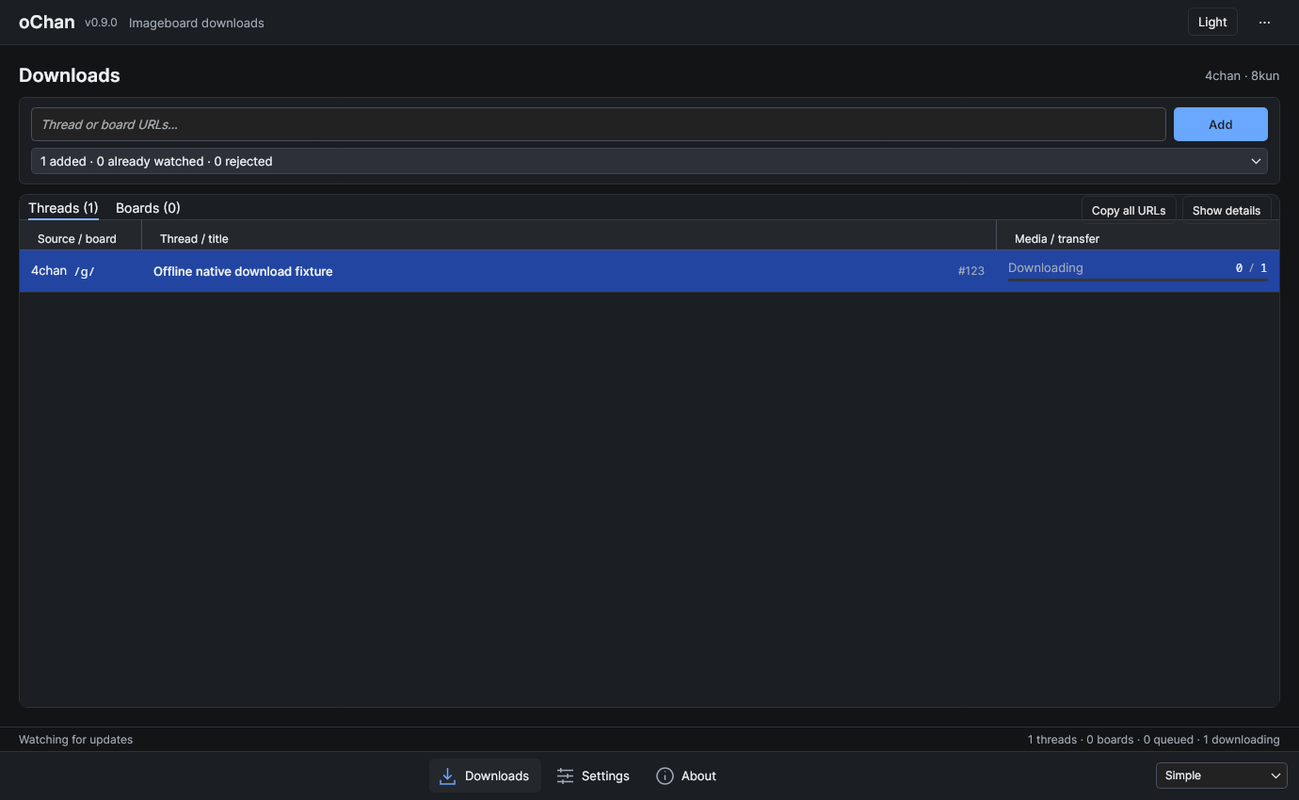
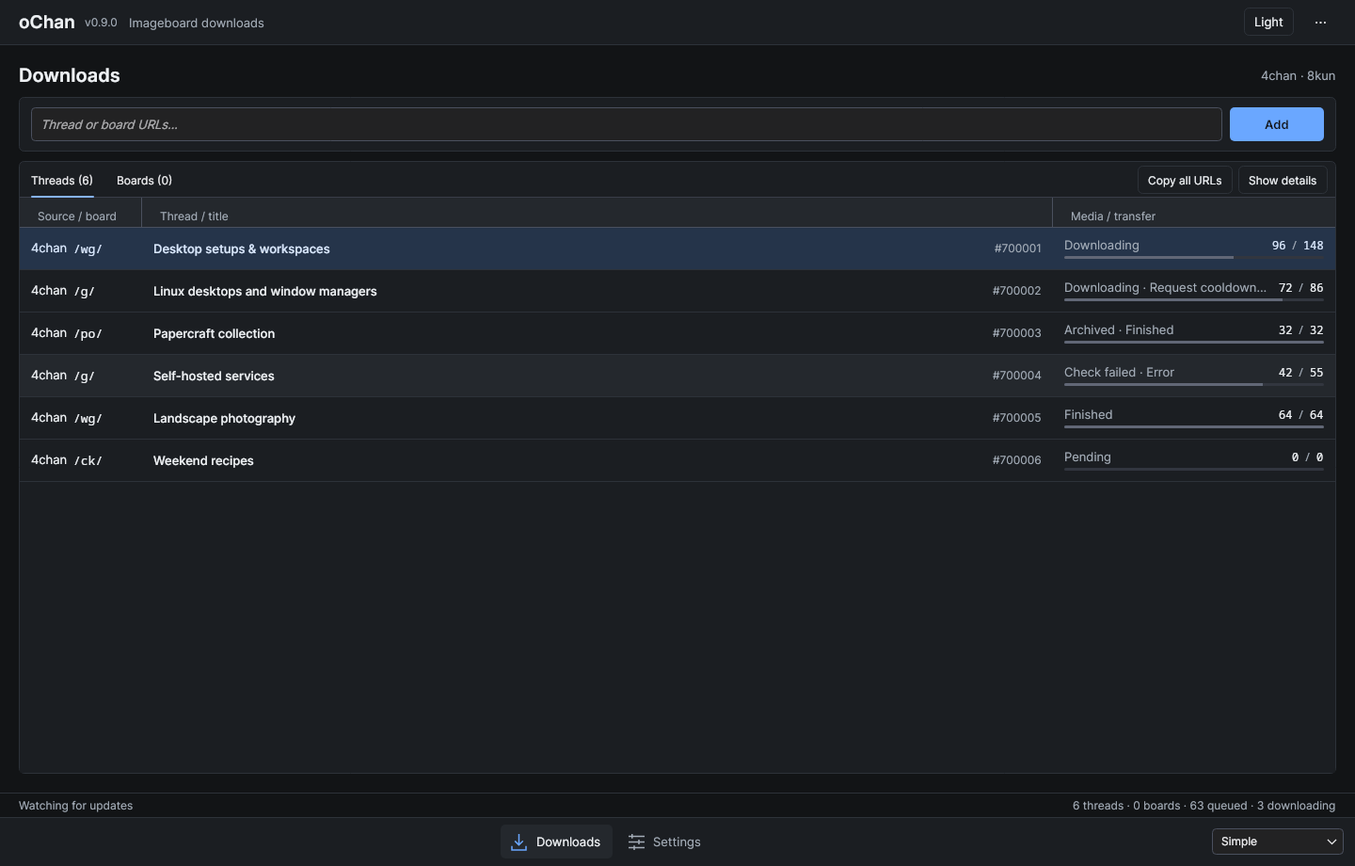
docs: refresh Avalonia workspace previews and validation evidence

diff --git a/docs/platform-support.md b/docs/platform-support.md
@@ -10,7 +10,34 @@ Current acceptance must cover the integrated download/restore flow, all three vi
 
 The subsequent compact-layout/menu-contrast correction passed a Release build without warnings or errors and 90 desktop tests. Final source-built Linux checks passed 5/5 scenarios at measured 100% and 150%, and 4/5 at 200%: `artifacts/ap13-layout-final-scale-{100,150,200}` (14/15 runs, 72 captures). All presentation checks passed, including six passive comparison rows, source/board and numeric sorting, minimum window sizes, and separately rendered Dark/Light context menus with asserted icon colors. The earlier `ap13-layout-correction-v3-scale-*` runs passed 15/15, but do not supersede the later failure.
 
-**Open Linux tray lifecycle defect:** The final 200% download-session check aborted during rapid restored-window shutdown, after download and media restoration had succeeded. The stack ends in `OrgKdeStatusNotifierItemHandler.EmitNewTitle` / `DBusTrayIconImpl.CreateTrayIcon`. Avalonia 11.3.22 can continue asynchronous DBus tray creation after disposal removes its handler; [upstream fix #21980](https://github.com/AvaloniaUI/Avalonia/pull/21980), included in 12.1.4, addresses this race. A reviewed framework upgrade/backport or an explicitly chosen Linux tray fallback is required before closing this gate; delays or rerunning until green do not fix it. The framework has not been changed in this layout correction. Native Windows/macOS tray appearance remains unverified. The packages listed below predate both this correction and the selected cat icon; they must be rebuilt before final release acceptance.
+**Linux tray lifecycle correction:** The 14/15 layout checkpoint above is historical. Avalonia 11.3.22 could continue asynchronous DBus tray creation after disposal removed its handler. Commit `53162b9` upgrades to Avalonia 12.1.4, which includes [upstream fix #21980](https://github.com/AvaloniaUI/Avalonia/pull/21980), with Actipro 26.2.0, DataGrid 12.1.2 and the transitive Tmds.DBus.Protocol 0.94.1. Icons now attach to the application's collection as required by Avalonia 12, and each window removes its entry on shutdown. The previous direct DBus pin is removed; locks and licensing notices are refreshed.
+
+**Current pages and local source evidence:** `0bbbfd5` extracts the shared settings editor, and `ae1b3f9` adds retained Downloads/Settings pages in one shell. Save/Cancel remain on Settings; footer actions preserve unrelated draft fields. The final source in `53162b9` passed 457 .NET tests and the 22 macOS-packaging fixtures. All six native Linux scenarios passed at measured 100%, 150% and 200%: **18/18**, retained in `artifacts/ap13-pages-final-scale-{100,150,200}`. The new tray-lifecycle scenario checks 16 rapid native windows per scale, confirms actual native tray attachment, checks collection cleanup and reacquires each profile lease. Normal mode also covers invalid draft navigation, footer failures, accepted save/picker shutdown, language refresh and small Settings pages; the download scenario completes media while Settings is visible and retains both page states.
+
+The local host logged unavailable AT-SPI/global-menu services as warnings; native accessibility/global-menu integration is not established by that evidence. The Xvfb attempt at that checkpoint was unavailable because the tools were not installed. They have since been provided as verified, locally extracted Manjaro packages; the new isolated evidence is recorded separately below.
+
+**Workstation freeze and test isolation:** After the framework checkpoint, the user reported a desktop freeze during subsequent style checks. The last native run (`artifacts/ap13-styles-final-scale-100`) passed only 2/6 scenarios, with window-size/minimization timeouts. Its relationship to the freeze is unproven. Do not infer resolution from the earlier 18/18 pass or use the active personal desktop for automatic GUI suites.
+
+Commit `d355152` isolates Linux runs in Xvfb/Openbox with a private DBus session that cannot activate host services, private XDG directories and cleared inherited desktop endpoints. Standard scenarios stop at the first failure; stress requires a separate explicit invocation. Windows/macOS and Linux native-session runs require explicit opt-in on a disposable test desktop. Nine window-free runner fixtures verify the selection, fail-fast, timeout, process cleanup and evidence behavior. Isolation is process/display ownership, not a security sandbox; the [harness instructions](../tests/oChan.DesktopSmoke/README.md) explain the limits.
+
+Native Windows/macOS, Linux Arm64 and full extracted-package workflows remain open. The earlier archives listed below predate the icon, pages, framework and style changes. Cross-publish alone cannot replace their native acceptance.
+
+### Isolated style checkpoint — `1884ff5`
+
+The final style source passed the Release solution build without warnings/errors and all **457 .NET tests** (367 core, 90 desktop). The smoke build, 22 macOS-packaging fixtures and nine window-free runner fixtures also passed. Linux GUI checks used Xvfb/Openbox, software rendering, a private non-activating DBus session and temporary profile/download directories; no personal desktop windows or tray stress were started.
+
+| Scope | Observed scale | Result | Evidence directory |
+| --- | --- | --- | --- |
+| Visual comparison plus five standard scenarios | 1.0 | 6/6 passed | `artifacts/ap13-styles-isolated-final-100` |
+| Normal presentation/settings after harness synchronization fixes | 1.0 | Passed | `artifacts/ap13-styles-isolated-final-100-normal-v2` |
+| Normal presentation/settings | 1.5 | Passed | `artifacts/ap13-styles-isolated-final-150-v3` |
+| Normal presentation/settings | 2.0 | Passed | `artifacts/ap13-styles-isolated-final-200` |
+
+The first 150% run retained a stale pre-resize restore target; the next reached a right-click check that used stale row coordinates after sorting. Both failed runs are retained in `artifacts/ap13-styles-isolated-final-150` and `-150-v2`. The harness now waits for the measured native size before saving its restore target and for the actual hit-tested row before sending a click. No timeout extension or product-behavior workaround was used. Normal mode was then verified at all three scales.
+
+The visual scene uses six passive snapshot rows at the mock's 1440×920 size and 880×680 for compact Barebones. Downloads/Settings, empty/disabled states, Advanced details, Dark/Light and keyboard focus were inspected; primary-action label contrast measured 7.55:1 and 6.46:1. Small EN/DE pages retain reachable actions. The README screenshots come from this isolated run. Visual user acceptance is still open.
+
+These results do not reproduce or establish the cause of the reported native desktop freeze. Xvfb has no native tray host, GPU rendering, host accessibility or desktop portals, and does not prove native Windows/macOS or extracted-package behavior.
 
 ## Upstream requirements checked on 2026-10-10
 
@@ -20,9 +47,9 @@ The official [.NET 10 supported OS matrix](https://github.com/dotnet/core/blob/m
 - Ubuntu 22.04, 24.04 and 26.04 on x64/Arm64, among other listed distributions. The portable x64/Arm64 glibc baseline is 2.27; this is a runtime compatibility floor, not a guarantee for every distribution or native graphics dependency.
 - Maintained Windows 11 releases/editions and the specifically listed Windows 10 LTSC/Enterprise/IoT variants. It does not promise general support for every Windows 10 installation. The [Microsoft installation guidance](https://learn.microsoft.com/en-us/dotnet/core/install/windows#supported-versions) explains the edition/lifecycle restriction.
 
-The current Avalonia documentation also covers Avalonia 12, including a 12.1 Wayland package, and must not be used as though all of it describes the project's Avalonia 11 packages. The [official documentation snapshot from the Avalonia 11 era](https://github.com/AvaloniaUI/avalonia-docs/blob/4640a690ff98762519cd16ab369a0e8016aa3c59/docs/overview/supported-platforms.md) lists Windows 8.1/10/11, macOS 10.14–15, Debian 9+, Ubuntu 16.04+ and Fedora 30+. Those older operating-system allowances do not override .NET 10's stricter supported-platform matrix. The snapshot is historical upstream evidence, not a versioned warranty for every Avalonia 11 patch.
+The desktop now uses Avalonia 12.1.4. Consult the [current Avalonia supported-platform guidance](https://docs.avaloniaui.net/docs/overview/supported-platforms) together with .NET 10's stricter OS matrix above. Avalonia 12 offers a separate Wayland backend, but this application does not enable or package it. Historical Avalonia 11 OS allowances do not describe the current dependency graph or override .NET's lifecycle requirements.
 
-The current Linux desktop uses X11, including XWayland on a Wayland desktop. A working graphical session and native graphics/font libraries are required even in a self-contained package. Ubuntu requires the X11/font dependencies used by Avalonia, including `libx11-6`, `libice6`, `libsm6` and `libfontconfig1`. A `linux-x64` or `linux-arm64` package targets glibc; it is not a `linux-musl-*` Alpine package.
+The current Linux desktop uses X11, including XWayland on a Wayland desktop. A working graphical session and native graphics/font libraries are required even in a self-contained package. Ubuntu requires the X11/font dependencies used by Avalonia, including `libx11-6`, `libice6`, `libsm6`, `libfontconfig1` and `libdbus-1-3`. A `linux-x64` or `linux-arm64` package targets glibc; it is not a `linux-musl-*` Alpine package.
 
 ## Candidate package matrix
 
@@ -49,16 +76,16 @@ Packaging a `.app` can be prepared without credentials. Signing/notarization and
 | Check | Evidence provided | Remaining boundary |
 | --- | --- | --- |
 | Offline tests | Deterministic production behavior against local fixtures, including failures and cancellation. | No public provider availability or native UI proof. |
-| Native source-built desktop harness | Avalonia startup/bindings/shutdown and selected profile/tray error paths on that runner. | The harness is a separate executable, even when it references the same application assembly. It does not execute the published `oChan` apphost. |
+| Source-built desktop harness | Avalonia startup/bindings/shutdown and selected profile/tray error paths on that runner. | The harness is a separate executable, even when it references the same application assembly. It does not execute the published `oChan` apphost. |
 | Publish and archive round-trip | Target output can be created; full files, notices and Unix executable bits survive archiving/extraction. | No proof that the extracted app starts or downloads correctly. |
 | Native extracted app run | Actual apphost, native dependencies, resources and normal app entrypoint run on the recorded OS/CPU. | Other OS/CPU combinations remain untested. |
 | Local NuGet package consumer | A fresh restore can consume the candidate library with no project reference or desktop dependency. | No public NuGet publication is performed. |
 
-CI runs the graphical harness on Windows/macOS runners and uses Xvfb with a private session bus on Linux. A runner without a working display must report the check as failed or unavailable; it must not silently count it as passed. A tray-absence simulation tests the application fallback contract and does not establish every desktop's tray behavior.
+CI runs the graphical harness with explicit native opt-in on disposable Windows/macOS runners and uses Xvfb/Openbox with a private session bus on Linux. Standard checks and tray stress run in separate steps. A runner without a working display must report the check as failed or unavailable; it must not silently count it as passed. A tray-absence simulation tests the application fallback contract and does not establish every desktop's tray behavior.
 
 ## Recorded validation
 
-### Local 0.9.0 source and desktop checks — 2026-10-10
+### Earlier 0.9.0 source and native desktop checks — 2026-10-10
 
 The integrated 0.9.0 source working tree passed 457 .NET tests: 367 core and 90 desktop tests. All 22 Python macOS-packaging fixture tests also passed. These were local source checks using the repository's pinned SDK 10.0.111 on Manjaro Linux x86_64 (kernel 6.18.49-1-MANJARO). The packaging fixtures check packaging code against controlled inputs; they do not establish that a 0.9.0 release archive was built or launched.
 
@@ -76,7 +103,7 @@ The download-session scenario uses the real FourChan provider, registry, shared 
 
 The integrated UI and final layout/harness fixes are recorded in commits `2e03d95` and `afa873c`. These checks used the 0.9.0 version metadata being prepared alongside the fixes; final restore/build/test logs are retained locally in `artifacts/ap13-v090-accepted-checks`. They do not identify a final release archive. No public imageboard HTTP requests were made. Clipboard and file-picker checks use controlled services; native clipboard/file-picker integration and every desktop's tray host remain outside this evidence. Window captures demonstrate application rendering at the measured scale, not complete desktop screenshots or validation of all monitor arrangements. Full workflows in the extracted packages, including Windows, macOS and Linux Arm64, still require their own native evidence.
 
-### Local 0.9.0 packages and Linux apphost — 2026-10-10
+### Earlier 0.9.0 packages and Linux apphost — 2026-10-10
 
 All five desktop packages were produced from source commit `2deaf1bcd15e730b1413b5899952a104cb6f4347`, archived and extracted successfully. All five publish logs were free of warning and error lines. Required documents, language-pack instructions, screenshots and native dependencies were present; applicable Unix executable permissions survived extraction. The macOS outputs use the unsigned app-bundle structure described above. These checks used SDK 10.0.111 and .NET host 10.0.11 on the Linux development machine.
 

diff --git a/README.md b/README.md
@@ -7,6 +7,7 @@ Version **0.9.0** is in preparation with a new desktop interface on top of the d
 ## What's new in 0.9.0
 
 - A redesigned Avalonia interface with Barebones, Simple (default) and Advanced views of the same running session.
+- Downloads and Settings pages in a shared workspace; drafts and running downloads survive navigation.
 - Dark and Light themes, normal or compact density, English and German, and optional JSON language packs.
 - Comma- and newline-separated URL lists, with an individual result for every entry and a summary of the latest import.
 - Thread and board details with their assigned folders, source state, current errors and media progress.
@@ -26,13 +27,15 @@ The first start uses **Simple**, **Dark**, **English** and normal density. Switc
 
 Every view keeps thread/board tabs, URL admission, sorting, adjustable columns, details, context actions and settings. Advanced changes the information shown; it uses the same downloader. The view, theme, language and density are saved preferences. Window size, column layout and details-panel width are not saved across restarts.
 
-The view selector is at the bottom right. Details start closed, and the latest import summary expands to show individual results. Action icons follow the menu's theme.
+Use the bottom navigation to switch between Downloads and Settings. About remains in the application menu. The view selector is at the bottom right. Details start closed, and the latest import summary expands to show individual results. Action icons follow the menu's theme.
 
-![Simple view with a running download](docs/screenshots/v0.9.0-simple.png)
+![Simple view with representative download states](docs/screenshots/v0.9.0-simple.png)
 
-![Compact Barebones view of the same running download](docs/screenshots/v0.9.0-barebones.png)
+![Compact Barebones view of the same example session](docs/screenshots/v0.9.0-barebones.png)
 
-These screenshots show the productive UI in the native Linux test harness at 100% scaling. The download uses controlled offline HTTP responses; the thread title, URL and media are test fixtures.
+![Settings in the shared workspace](docs/screenshots/v0.9.0-settings.png)
+
+These screenshots show the productive UI at 100% scaling in the isolated Linux harness (Xvfb/Openbox, software rendering). Titles, URLs and states are passive test fixtures; no watches or network requests are started for these comparison scenes.
 
 ## Build and run
 
@@ -50,7 +53,7 @@ Desktop builds target Windows, macOS and Linux. Self-contained archives include 
 
 Enter one or more thread or board URLs and select **Add**, or press **Enter** in the URL field. Separate URLs with commas or newlines; **Shift+Enter** inserts a newline. A board watch discovers its threads automatically. Each entry receives a result, and invalid or failed entries do not prevent later entries from being processed. If any entry fails, the complete input list remains available for correction. Successful input is cleared only if it has not been edited during the import.
 
-Selecting **Add** with an empty field reads the clipboard once. Explicit input uses only the entered text. **Ctrl+L** (**Cmd+L** on macOS) focuses the URL field. **Ctrl+V/Cmd+V** outside a text field in the main window imports the clipboard; inside text fields it pastes normally. The tray also offers clipboard import. These are user-triggered actions, with no automatic clipboard monitoring.
+Selecting **Add** with an empty field reads the clipboard once. Explicit input uses only the entered text. **Ctrl+L** (**Cmd+L** on macOS) returns to Downloads and focuses the retained URL field. **Ctrl+V/Cmd+V** outside a text field in the main window imports the clipboard; inside text fields it pastes normally. The tray also offers clipboard import. These are user-triggered actions, with no automatic clipboard monitoring.
 
 Use **Copy URL** for a single row or **Copy all URLs** for every watched thread and board, regardless of the selected tab. The copied list contains one URL per line and can be imported again.
 
@@ -70,7 +73,7 @@ Completed media is verified and recorded in a manifest. Files are published atom
 
 Settings control the output path, polling interval, global parallel downloads and bandwidth. Existing watches retain their assigned destinations when the output root changes. Threads added directly use the current root; threads discovered from an existing board keep that board's assigned root.
 
-Settings also control theme, language, view, compact density and minimizing to the tray. **Save & Close** validates and saves changes; **Cancel** discards pending edits. Theme and view changes made directly in the main window save immediately. Existing settings files receive defaults for the new appearance preferences while retaining their download and session settings.
+Settings also control theme, language, view, compact density and minimizing to the tray. **Save** validates and saves changes while staying on Settings; **Cancel** reloads the confirmed values without leaving the page. Navigation preserves pending edits, including invalid number text. Theme and view changes made in the footer save immediately and update only that field in a pending Settings draft. Existing settings files receive defaults for the new appearance preferences while retaining their download and session settings.
 
 When **Restore session on startup** is enabled, confirmed changes to watched URLs are saved as they happen. The application restores them at startup. Settings/session failures are shown rather than silently replacing saved state. Only one running application can own a profile.
 
@@ -98,7 +101,9 @@ dotnet build tests/oChan.DesktopSmoke/oChan.DesktopSmoke.csproj -c Release
 python scripts/run-desktop-smoke.py --assembly tests/oChan.DesktopSmoke/bin/Release/net10.0/oChan.DesktopSmoke.dll --output artifacts/desktop-smoke
 ```
 
-The graphical harness requires a working desktop on Windows/macOS. On Linux, its default runner uses Xvfb and a private session bus; `--native-display` uses an existing graphical session. It covers normal presentation/settings, profile conflicts, absent/failing tray behavior and a download/restore session backed by local HTTP fixtures. Offline tests and the harness make no public imageboard requests. Running the harness does not replace starting a freshly extracted release archive. See the [platform validation record](docs/platform-support.md) for evidence and remaining native checks.
+On Linux, the runner requires Xvfb, Openbox and a private session bus; missing tools fail without falling back to your desktop. Windows/macOS require a dedicated test desktop and `--allow-native-desktop`. Standard scenarios run serially and stop at the first failure. Rapid tray/window stress is a separate opt-in; do not run it on a personal workstation. See the [harness instructions](tests/oChan.DesktopSmoke/README.md) for prerequisites and targeted visual checks.
+
+The harness covers page navigation/drafts, presentation/settings, profile conflicts, tray fallback and a download/restore session backed by local HTTP fixtures. It makes no public imageboard requests and does not replace testing freshly extracted release packages. See the [platform validation record](docs/platform-support.md) for evidence and remaining native checks.
 
 ## License
 

diff --git a/docs/releases/v0.9.0.md b/docs/releases/v0.9.0.md
@@ -8,7 +8,8 @@
 
 - **New cat icon.** A photographic cat-head cutout replaces the previous app and tray branding, including Windows icons and the macOS app bundle.
 - **Barebones, Simple and Advanced.** The footer lists views in this order, with Simple as the default. Advanced adds separate thread-ID, status, queued-media and active-media columns. Barebones provides a smaller, denser window. All three operate on the same running session and retain the core controls.
-- **Compact workspace and readable icons.** Grouped table cells give downloads more space. Details start closed; import results expand within the URL intake panel. Action icons follow the menu's theme.
+- **Real Downloads and Settings pages.** Bottom navigation changes the work area within a shared shell. Input, selection, details, settings drafts and running downloads survive navigation. Save/Cancel stay on Settings; About remains in the menu.
+- **Compact workspace and readable icons.** Grouped table cells give downloads more space. Details start closed; import results expand within the URL intake panel. Action icons follow the menu's theme. Shared button states, primary-label contrast, keyboard focus and aligned Settings actions now follow the same Dark/Light styling.
 - **Dark/Light and language preferences.** Choose theme, density and built-in English or German. Additional languages can be supplied as plain JSON packs in the active profile's `LanguagePacks` directory. Missing translations fall back to English; invalid or unavailable packs produce a warning without preventing startup.
 - **Multiple URLs in one import.** Separate thread/board URLs with commas or newlines. Add or Enter processes them through the existing admission path and reports each result. Invalid entries do not prevent later entries from being handled. Failed lists remain available for correction.
 - **Useful thread and board details.** Inspect the selected URL, assigned download directory, source state and current errors. Thread details also show saved/known media and queued/active jobs. Open the folder or browser, copy the URL or remove the watch from the same panel.
@@ -18,7 +19,7 @@
 
 **Double-click now opens details instead of opening the folder.** Folder opening remains a separate button/context action. Details appear beside wide tables and overlay narrow ones; Escape closes them.
 
-Enter in the URL field starts an import; Shift+Enter inserts a newline. Ctrl+L/Cmd+L focuses the field. Empty Add, the tray import action and Ctrl+V/Cmd+V outside text fields in the main window read the clipboard once. Normal paste remains available inside text fields.
+Enter in the URL field starts an import; Shift+Enter inserts a newline. Ctrl+L/Cmd+L returns to Downloads and focuses the retained field. Empty Add, the tray import action and Ctrl+V/Cmd+V outside text fields in the main window read the clipboard once. Normal paste remains available inside text fields.
 
 Imports preserve any input edited while they run. Explicit input clears only when all entries were added or already present and the input has not changed. The result report covers the latest import; it is not a persistent activity history. Copy all includes both thread and board watches, regardless of the active tab.
 
@@ -28,15 +29,15 @@ Progress means **saved media / currently known media**. The known count can grow
 
 Existing profile locations, watched URLs, settings and assigned download paths remain usable. Back up the profile before replacing a release. Missing appearance fields receive **Simple, Dark, English and normal density** defaults. Theme, language, view and density are saved in `settings.json`; window geometry, column layout and details-panel width are not saved across restarts.
 
-Settings changes require a successful Save & Close; Cancel discards pending edits. Theme and view changes made directly in the main window save immediately. Changing the output root continues to leave existing watch destinations intact, including later threads discovered by an existing board.
+Settings changes require a successful Save; Cancel reloads confirmed values. Both actions stay on Settings. Page navigation preserves pending edits. Theme and view changes made in the footer save immediately and synchronize only the corresponding draft field, preserving unrelated edits and validation errors. Changing the output root continues to leave existing watch destinations intact, including later threads discovered by an existing board.
 
 English and German are included. Add or edit optional language packs while the app is closed, then restart and select the language in Settings. The [language-pack instructions](../../Desktop/Localization/README.md) describe the format. Technical provider and exception messages can remain untranslated.
 
-The public `libochan` API does not change for this interface replacement. Source builds and library consumers continue to require .NET 10; self-contained desktop archives include the runtime.
+The desktop now uses Avalonia 12.1.4, with matching Actipro 26.2.0 and DataGrid 12.1.2 packages. This includes the upstream fix for late Linux DBus tray registration after disposal. The public `libochan` API does not change for this interface replacement. Source builds and library consumers continue to require .NET 10; self-contained desktop archives include the runtime.
 
 ## Packages and remaining validation
 
-The package targets remain Windows x64, Linux x64/Arm64 and macOS Intel/Apple Silicon. Extract the whole archive and retain its native libraries, notices and documentation. macOS archives contain an unsigned, non-notarized `oChan.app`. Linux packages require glibc, native graphics/font dependencies and an X11 or XWayland desktop.
+The package targets remain Windows x64, Linux x64/Arm64 and macOS Intel/Apple Silicon. Extract the whole archive and retain its native libraries, notices and documentation. macOS archives contain an unsigned, non-notarized `oChan.app`. Linux packages require glibc, native graphics/font dependencies including `libdbus-1` and an X11 or XWayland desktop.
 
 Final release acceptance must identify the source commit and archive hashes and record native workflows in freshly extracted packages on the promised OS/CPU matrix. That includes download/removal/restore, clipboard/folder actions, tray fallback, shutdown, small windows and display scaling. The successful 0.8.0 CI runs remain historical evidence and do not validate this UI update. See the [platform validation record](../platform-support.md) for the current evidence and open checks.
 

diff --git a/CHANGELOG.md b/CHANGELOG.md
@@ -8,17 +8,19 @@ This update replaces the desktop interface while keeping the 4chan/8kun download
 
 - **New cat icon.** The selected photographic cat-head cutout now identifies the app, its windows and tray across the desktop packages.
 - **Three desktop views.** Simple is the default. Advanced adds separate thread-ID, queued-media and active-media columns. Barebones provides a smaller, denser window. Switching views preserves the running session, selection and input.
-- **Compact workspace.** The footer selector lists Barebones, Simple and Advanced. Grouped table cells and initially closed details give downloads more space; import results expand within the intake panel. Menu icons adapt to their theme.
+- **Downloads and Settings pages.** Both remain in the same shell, with navigation at the bottom. Switching pages retains URL input, selection, details, invalid settings drafts and running downloads. Save and Cancel stay on Settings; About remains in the application menu.
+- **Compact workspace.** The footer selector lists Barebones, Simple and Advanced. Grouped table cells and initially closed details give downloads more space; import results expand within the intake panel. Menu icons adapt to their theme. Shared button states, readable primary labels, keyboard focus and aligned Settings actions follow the same Dark/Light styling.
 - **Appearance and language preferences.** Dark/Light themes, normal/compact density and built-in English/German are saved in the profile. Optional data-only JSON language packs load at startup, with English fallback and visible warnings for invalid or missing packs.
 - **Batch URL admission.** Add or Enter accepts comma- and newline-separated thread/board URLs through the existing provider registry. Each entry receives a result, including duplicates and failures; valid later entries still run. Failed lists remain editable, and edits made during an import are preserved.
 - **Details for threads and boards.** A side panel, or an overlay in narrow windows, shows the selected URL, actual assigned folder, status and current errors. Thread details also show saved/known media and queued/active media counts. Folder, browser, copy and remove actions remain accessible.
 - **Reusable URL copying.** Copy a single URL or all watched thread and board URLs as a newline-separated list. Empty Add, the tray action and the main-window paste shortcut import the clipboard once when explicitly invoked.
-- **Updated desktop dialogs.** Settings, About and startup errors use the new appearance and localization while retaining existing download settings, save/cancel behavior and profile/tray recovery paths.
+- **Updated desktop dialogs.** About and startup errors use the new appearance and localization while retaining profile/tray recovery paths.
+- **Linux tray lifecycle fix.** Avalonia 12.1.4 includes the upstream correction for asynchronous registration continuing after tray disposal. Matching Actipro/DataGrid packages, native graphics dependencies, package locks and notices are updated.
 
 ### Upgrade and behavior notes
 
-- Existing profiles, watched URLs and assigned download paths remain usable. New appearance fields default to **Simple, Dark, English and normal density** when absent. Main-window theme/view changes save immediately; pending Settings changes require a successful **Save & Close**.
-- **Double-click opens details**, replacing the previous folder-opening shortcut. Open folder remains a separate action. Escape closes details; Ctrl+L/Cmd+L focuses URL input, and Shift+Enter inserts a newline.
+- Existing profiles, watched URLs and assigned download paths remain usable. New appearance fields default to **Simple, Dark, English and normal density** when absent. Main-window theme/view changes save immediately; pending Settings changes require a successful **Save**. Cancel reloads confirmed settings; neither action leaves the page.
+- **Double-click opens details**, replacing the previous folder-opening shortcut. Open folder remains a separate action. Escape closes details; Ctrl+L/Cmd+L switches to Downloads and focuses URL input, and Shift+Enter inserts a newline.
 - Progress is **saved / known media**, not bytes or a final thread size. Monitoring continues at 100%. “Archived” describes the source, not a local HTML archive. The import report describes the latest import, not a persistent history.
 - View/theme/language/density preferences persist. Window geometry, column layout and details-panel width do not persist across restarts.
 - .NET 10 and the existing platform targets are retained. This UI update introduces no new public `libochan` API requirement.
